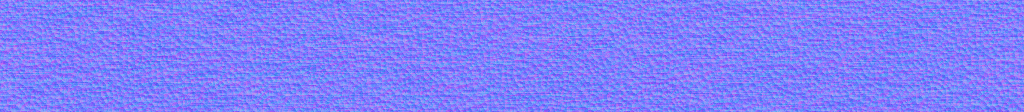
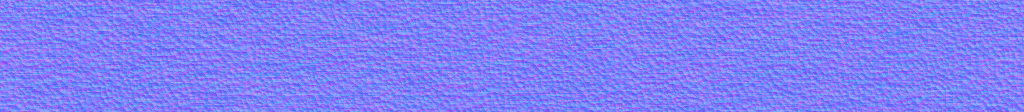
wip: hero-type + site-check agent checkpoint (unreviewed)
⚠ IN-FLIGHT AGENT WORK, committed because a stop hook requires a clean tree.
Two agents are still running and this is what they had on disk.

  media/hero/type-*.{png,webp}      re-baked hero type maps
  scripts/blender/build-hero-type.py
  scripts/build-site-check.mjs

Checked, not judged: build-site-check parses, and index.html (which is live on
hero3d.js and these maps) still loaded clean headless at the previous
checkpoint minutes ago.

⚠ Note for the agent when it reports: it ships the .webp (11 KB + 41 KB, good)
but is ALSO carrying the .png intermediates (445 KB). scripts/build-bg.mjs
established the pattern for exactly this — measure quality on the lossless png,
ship the webp, then unlink the png. The pngs should not be in the tree.

Claude-Session: https://claude.ai/code/session_0124RyFVXS7n4TQHypJ3RUhF

diff --git a/scripts/blender/build-hero-type.py b/scripts/blender/build-hero-type.py
@@ -275,10 +275,13 @@ def foil_material(aspect):
     nt.links.new(iso.outputs['Vector'], cells.inputs['Vector'])
 
     # stock fibre
+    # ⚠ Weaker and coarser than build-bg's. That plate is seen at arm's length behind text; this
+    #   one is the biggest thing on the page and is sampled at up to 2x device pixels, where a
+    #   high-detail fine noise stops reading as fibre and starts reading as compression speckle.
     fibre = node(nt, 'ShaderNodeTexNoise', (-780, -20))
-    fibre.inputs['Scale'].default_value = 150.0
-    fibre.inputs['Detail'].default_value = 6.0
-    fibre.inputs['Roughness'].default_value = 0.58
+    fibre.inputs['Scale'].default_value = 105.0
+    fibre.inputs['Detail'].default_value = 4.0
+    fibre.inputs['Roughness'].default_value = 0.50
     nt.links.new(iso.outputs['Vector'], fibre.inputs['Vector'])
 
     # brushed streaks — a foil stamp is drawn off a roll, and the roll leaves a direction
@@ -297,7 +300,7 @@ def foil_material(aspect):
     nt.links.new(brush_c.outputs['Vector'], brush.inputs['Vector'])
 
     mix1 = node(nt, 'ShaderNodeMixRGB', (-520, 160), blend_type='MIX')
-    mix1.inputs['Fac'].default_value = 0.24
+    mix1.inputs['Fac'].default_value = 0.15
     nt.links.new(cells.outputs['Distance'], mix1.inputs['Color1'])
     nt.links.new(fibre.outputs['Fac'], mix1.inputs['Color2'])
 
@@ -334,9 +337,9 @@ def foil_material(aspect):
     #    recesses puts holes in the letterforms at small sizes. ──
     shade = node(nt, 'ShaderNodeValToRGB', (-120, 160))
     shade.color_ramp.elements[0].position = 0.10
-    shade.color_ramp.elements[0].color = (0.62, 0.62, 0.62, 1)
+    shade.color_ramp.elements[0].color = (0.76, 0.76, 0.76, 1)
     shade.color_ramp.elements[1].position = 0.85
-    shade.color_ramp.elements[1].color = (1.30, 1.30, 1.30, 1)
+    shade.color_ramp.elements[1].color = (1.20, 1.20, 1.20, 1)
     nt.links.new(relief.outputs['Color'], shade.inputs['Fac'])
 
     paint = node(nt, 'ShaderNodeMixRGB', (200, 40), blend_type='MULTIPLY')
